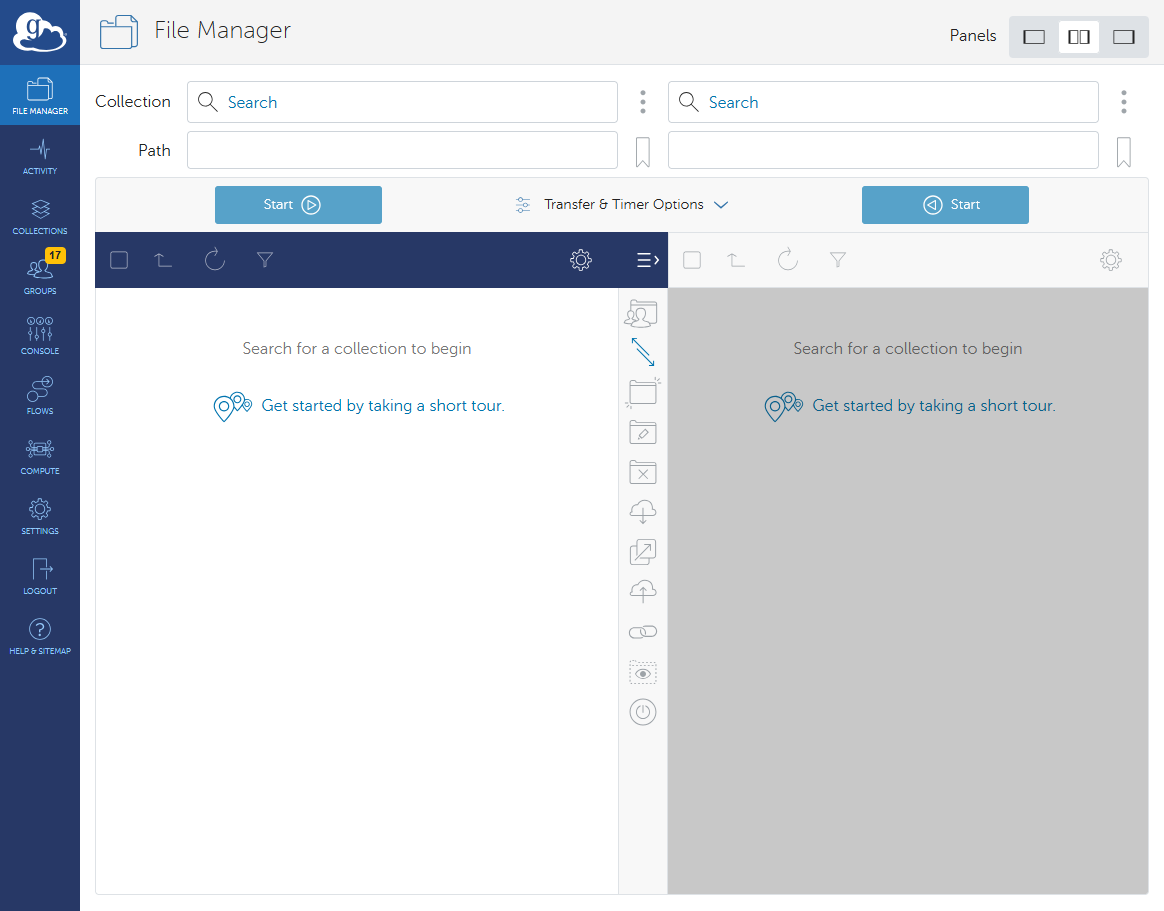
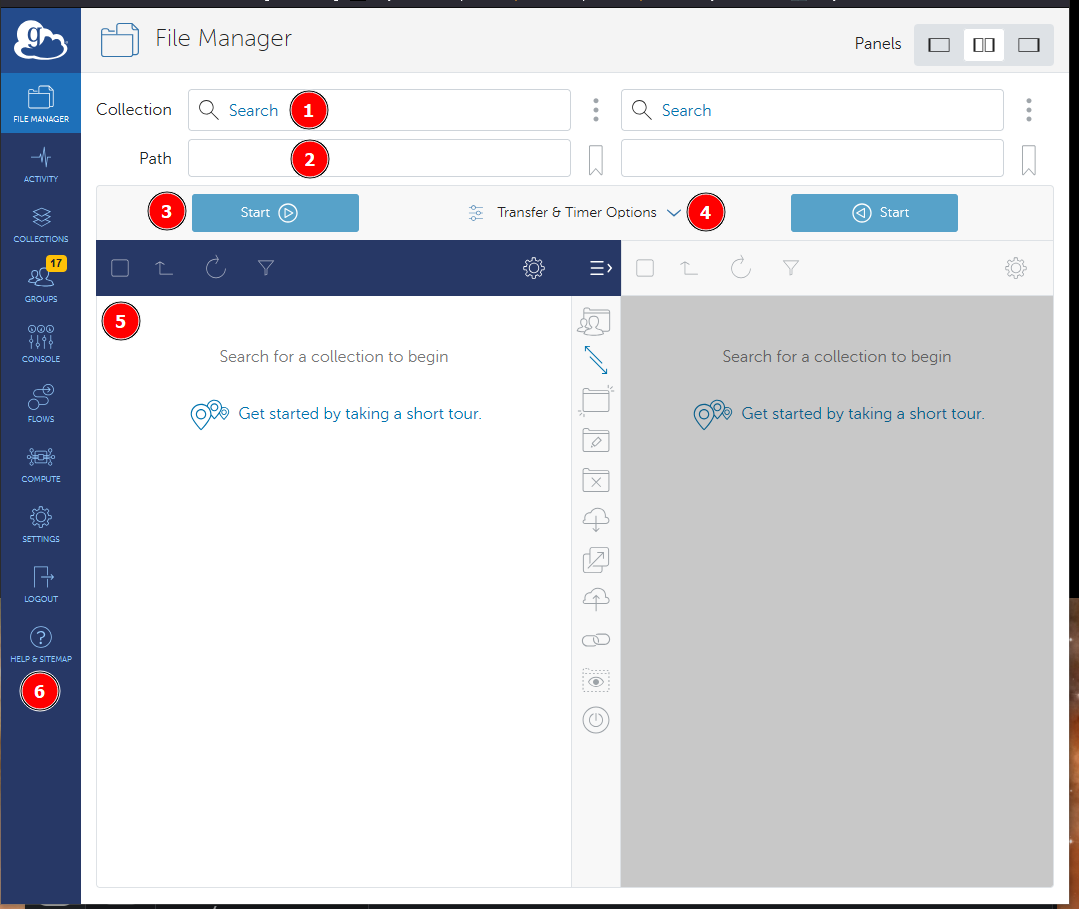
enhance web app section

diff --git a/docs/data_management/tutorial/globus_individual_tutorial.md b/docs/data_management/tutorial/globus_individual_tutorial.md
@@ -52,37 +52,64 @@ Globus is an ecosystem of software intended to make research data transfer simpl
 
 ## How Do I Get Onto the Globus Web App?
 
-1. To get to the Globus web app navigate to <https://app.globus.org>. You should see a page like below.
+1. Use your browser to navigate to <https://app.globus.org>. You should see a login page like below.
 
-    ![Globus web app login page.](./images/gi-web-app/001-login.png)
+    ![Globus Web App login page.](./images/gi-web-app/001-login.png)
 
-1. Type "UAB" or "University of Alabama at Birmingham" into the search bar to locate UAB in the list. The image below shows the correct choice in a red box.
+1. To login, first you must select our institution. Type "UAB" or "University of Alabama at Birmingham" into the search bar to locate UAB in the list. The image below shows the correct choice in a red box.
 
-    ![Globus web app login search bar with UAB entered and University of Alabama at Birmingham in a red box.](./images/gi-web-app/002-search.png)
+    <!-- markdownlint-disable MD046 -->
+    !!! note
 
-1. Select "University of Alabama at Birmingham" from the drop-down menu and click "Continue" to be taken to the UAB Single Sign-On (SSO) form.
+        If you are an external collaborator using a [XIAS account](../../account_management/xias/index.md) to interact with UAB-owned storage you will still need to search for "UAB" (this is uncommon). Do not use your home institution login to access UAB storage systems, as you will only have access with your XIAS credentials.
+    <!-- markdownlint-enable MD046 -->
 
-    ![Globus web app with University of Alabama at Birmingham selected showing activated Continue button.](./images/gi-web-app/003-continue.png)
+    ![Globus Web App login search bar with UAB entered and University of Alabama at Birmingham in a red box.](./images/gi-web-app/002-search.png)
 
-1. Enter your BlazerID and password in the SSO form, then click "Log In".
+1. Select "University of Alabama at Birmingham" from the drop-down menu.
+
+    ![Globus Web App with University of Alabama at Birmingham selected showing activated Continue button.](./images/gi-web-app/003-select.png)
+
+1. Click "Continue" to be taken to the UAB Single Sign-On (SSO) form. Enter your BlazerID and password in the SSO form, then click "Log In".
 
     ![UAB Single Sign-On form.](./images/gi-web-app/004-sso.png)
 
-1. After logging in, you will be directed to the Globus file manager.
+1. You should now see the "File Manager" page of the Globus Web App. We will be revisiting this page frequently throughout the tutorials. We highly recommend taking some time to familiarize yourself with the page as you proceed.
 
-    ![Globus web app file manager single-panel view.](./images/gi-web-app/005-file-manager-single-panel.png)
+    ![Globus Web App file manager single-panel view.](./images/gi-web-app/005-file-manager-single-panel.png)
 
-1. Enable two-panel view mode by clicking the button located near the top right corner, as shown in the red box below. Of the three available view mode buttons, the two-panel view button is in the center. This is an optional step, but highly recommended. This step will make your life much simpler while using Globus, now and in the future.
+1. Data transfers involve two computers: source and destination. As we learn more about Globus, data stored on the source and destination will be visible on the "File Manager" page in the panels in the screenshot above.
 
-    ![Globus web app file manager two-panel view.](./images/gi-web-app/006-view-buttons.png)
+    By default, only one panel is visible. We find this restrictive and recommend selecting two-panel view mode. Select two-panel view mode by clicking the button located near the top right corner, as shown in the red box below. Of the three available view mode buttons, the two-panel view mode button is in the center.
 
-1. On the file transfer page, you will see two file browser windows: one on the left and one on the right. Each window will have an Endpoint field representing the two systems between which you wish to transfer files. Once set up, you can transfer files in either direction.
+    From here on, tutorials will assume you are using two-panel view mode when we refer to the "File Manager" page.
 
-    ![Globus web app file manager two-panel view.](./images/gi-web-app/007-file-manager-two-panel.png)
+    ![Globus Web App file manager two-panel view.](./images/gi-web-app/006-view-buttons.png)
 
-The file manager will be your most frequently-visited page when using Globus for data transfers. It is central to usage of the Globus web application.Please take some time to familiarize yourself with its look and feel. As you progress in the tutorials, please take time to experiment with transferring data to better understand how the interface works.
+1. Now that two-panel view mode has been selected, you will see two sets of features and panels side-by-side. Most of these features will be used extensively when using Globus.
 
-[Return to the index.](#globus-tutorials-for-individual-researchers)
+    - **(1) Collection Search bar**: Clicking here will open the "Collection Search" page, allowing you to find Collections of data shared by others, or find your own Collections.
+    - **(2) Path text field**: After a Collection has been selected above, this text field allows you to enter the path to a specific folder, updating the files and folders shown in (5).
+    - **(3) Start Transfer button**: When you have selected files and folders in (5), use this button to start transferring.
+    - **(4) Transfer Options drop down menu**: Various options for the transfer are available in this menu. These options are not commonly needed. We will not use this during these tutorials.
+    - **(5) File Browser panel**: After a Collection has been selected in (1), a list of files and folders will appear here for the path shown in (2). You may navigate the Collection here like you would on your operating system.
+    - **(6) Navigation panel**: The blue bar at the left hand side of the Globus Web App is the navigation panel. It will be referred to and used many times throughout these tutorials.
+
+    ![Globus Web App file manager two-panel view.](./images/gi-web-app/007-file-manager-two-panel.png)
+
+1. To better prepare you for what to expect, the screenshot below shows the "File Manager" page with an example Collection selected, called "my-gcp-collection". This example shows a path and contents in the File Browser panel.
+
+    - **(1) Overall Selection checkbox**: Select or unselect all files in the currently displayed folder.
+    - **(2) Go Up One Level button**: Go to the folder containing the currently displayed folder.
+    - **(3) Refresh button**: Refreshes the view of the currently displayed folder.
+    - **(4) File Selection checkbox**: The file is currently selected for transfer.
+    - **(5) Folder Selection checkbox**: The folder is currently not selected for transfer.
+
+    ![Globus Web App file manager two-panel view with collection selected showing a file and folder.](./images/gi-web-app/008-file-manager-two-panel-example.png)
+
+The file manager will be your most frequently-visited page when using Globus for data transfers. It is central to usage of the Globus Web Application. Please take some time to familiarize yourself with its look and feel. As you progress in the tutorials, please take time to experiment with transferring data to better understand how the interface works. Feel free to return here for guidance.
+
+From here you can proceed to [How Do I Find Collections Shared with Me?](#how-do-i-find-collections-shared-with-me) or [return to the top](#globus-tutorials-for-individual-researchers).
 
 ## How Do I Find Collections Shared with Me?
 
